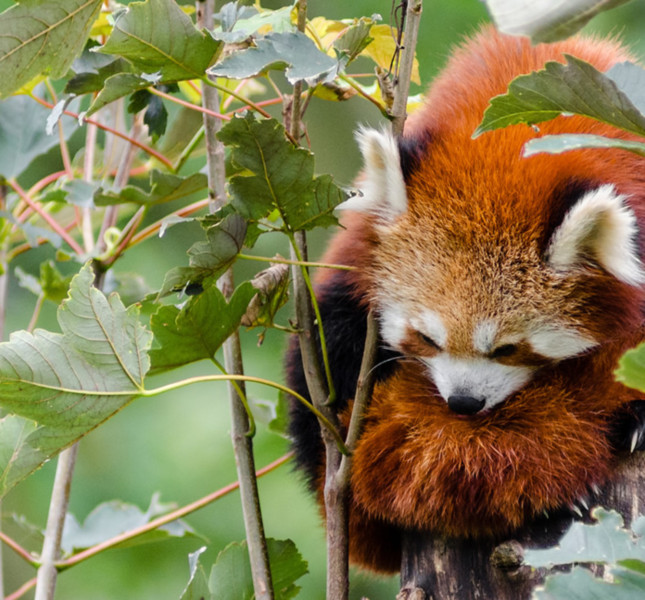
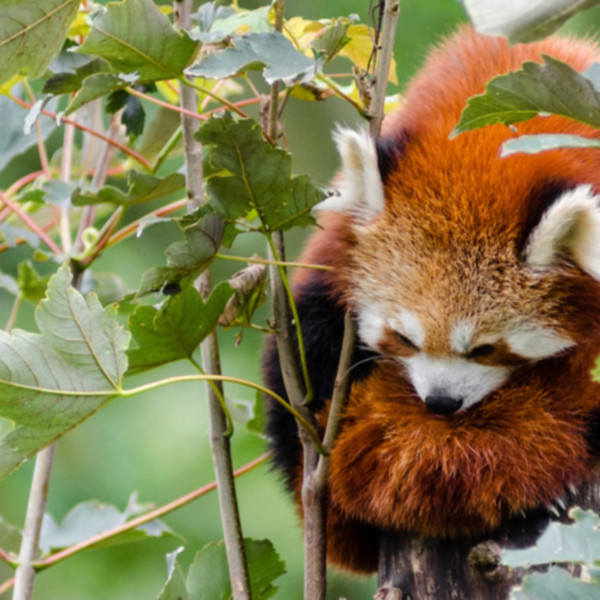
index

diff --git a/index.html b/index.html
@@ -29,25 +29,29 @@
     <div class="further-info">
         <!-- 插入包含 srcsets 和 sizes 属性的图像 -->
         <a href="https://www.mozilla.org/zh-CN/firefox/new/">
-            <img srcset="firefox_logo-400.png 400w, firefox-addons 120.jpg 120w"
+            <img srcset="firefox_logo-400.png 400w, firefox_logo-120.png 120w"
                  sizes="(max-width: 480px) 120px, 400px"
-                        src="firefox_logo-400.png"
-                        alt="firefox logo">
+                 src="firefox_logo-400.png"
+                 alt="firefox logo">
         </a>
         <a href="https://www.mozilla.org/">
             <source media="(min-width: 480)" srcset="mozilla-dinosaur400.png">
-            <source media="(max-width: 479)" srcset="mozilla-dinosaur-120.png.jpg">
-            <img src="mozilla-dinosaur400.png" alt="mozilla dinosaur">
+            <source media="(max-width: 479)" srcset="mozilla-dinosaur-120.png">
+            <img srcset="mozilla-dinosaur400.png 400w, mozilla-dinosaur-120.png 120w"
+                 sizes="(max-width: 480px) 120px, 400px"
+                 src="mozilla-dinosaur400.png"
+                 alt="mozilla dinosaur">
         </a>
         <a href="https://addons.mozilla.org/">
-            <source media="(min-width: 480)" srcset="firefox-addons400.jpg">
-            <source media="(max-width: 479)" srcset="firefox-addons 120.jpg">
-            <img src="firefox-addons400.jpg" alt="firefox addons">
+            <img srcset="firefox-addons400.jpg 400w, firefox-addons120.jpg 120w"
+                 sizes="(max-width: 480px) 120px, 400px"
+                 src="firefox-addons400.jpg"
+                 alt="firefox addons">
         </a>
         <a href="https://developer.mozilla.org/zh-CN/">
             <source media="(min-width: 480)" srcset="mdn.svg">
             <source media="(max-width: 479)" srcset="mdn.svg">
-            <img src="mdn.svg" alt="mdn">
+            <img src="mdn.svg" alt="mdn" />
         </a>
         <div class="clearfix"></div>
     </div>
@@ -55,7 +59,8 @@
     <div class="red-panda">
         <!-- 插入照片元素 -->
         <picture>
-            <source media="(max-width: 599)" srcset="red-panda600w.jpg">
+            <source media="(max-width: 599px)" srcset="red-panda600w.jpg">
+            <source media="(min-width: 600px)" srcset="red-panda1200.jpg">
             <img src="red-panda.jpg" alt="red-panda">
         </picture>
     </div>
